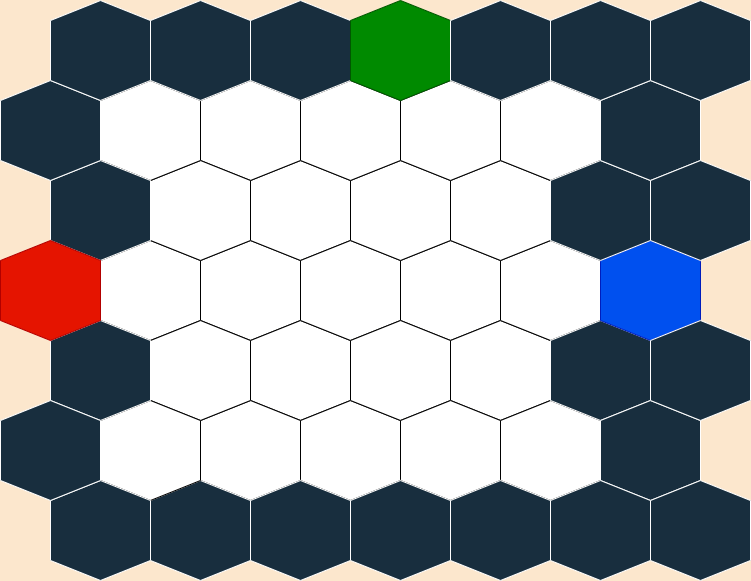
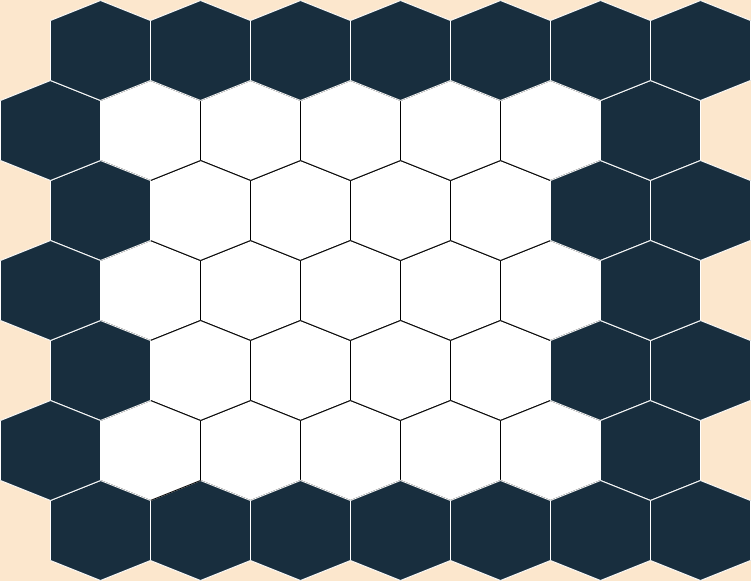
map

Changed region(s): [[0.4594, 0.0, 0.6125, 0.1859], [0.0, 0.4028, 0.1531, 0.5886], [0.7963, 0.4028, 0.9494, 0.5886]]

diff --git a/RLModified.py b/RLModified.py
@@ -5,11 +5,12 @@ import matplotlib.pyplot as plt
 import pickle
 from matplotlib import style
 import time
+import pygame
 
 style.use("ggplot")
 
 SIZE = 7
-HM_EPISODES = 25000
+HM_EPISODES =40000
 MOVE_PENALTY = 0.5
 OUT_PENALTY= 300
 COLLISION_PENALTY=300
@@ -32,13 +33,30 @@ d = {1: (255, 175, 0), #blue
      2: (0, 255, 0), #Green
      3: (0, 0, 255)} #Red
 
+map_file='map.png'
+conv=pygame.image.load(map_file)
+p1_file='greenPackage.png'
+p1=pygame.image.load(p1_file)
+p2_file='bluePackage.png'
+p2=pygame.image.load(p2_file)
+d1_file='greenCell.png'
+d1=pygame.image.load(d1_file)
+d2_file='blueCell.png'
+d2=pygame.image.load(d2_file)
+d3_file='redCell.png'
+d3=pygame.image.load(d3_file)
+
+screen_width = 750
+screen_height = 580
+screen = pygame.display.set_mode((screen_width, screen_height))
+
 MOVE_OPTIONS=["EAST", "NORTHEAST", "NORTHWEST","WEST", "SOUTHWEST", "SOUTHEAST","STAY"]
 
-class Package:
+class Cell:
     def __init__(self, x=False, y=False):
-        if not x:
+        if not x and not y:
             self.x = np.random.randint(1, SIZE-1)
-            self.y = SIZE-2
+            self.y = 1
         else:
             self.x=x
             self.y=y
@@ -56,43 +74,22 @@ class Package:
         if choice == 0:
             self.move(1, 0)
         elif choice == 1:
-            self.move((self.y)%2, 1)
+            self.move((self.y+1)%2, 1)
         elif choice == 2:
-            self.move( -(1+(self.y))%2, 1)
+            self.move( -((self.y))%2, 1)
         elif choice == 3:
             self.move(-1, 0)
         elif choice == 4:
-            self.move(-((self.y)+1)%2, -1)
+            self.move(-((self.y))%2, -1)
         elif choice == 5:
-            self.move((self.y)%2, -1)
+            self.move((self.y+1)%2, -1)
         elif choice == 6:
-            self.move(x=0, y=0)
+            self.move(0, 0)
             
 
-    def move(self, x=False, y=False):
-
-        # If no value for x, move randomly
-        if not x:
-            self.x += np.random.randint(-1, 2)
-        else:
-            self.x += x
-
-        # If no value for y, move randomly
-        if not y:
-            self.y += np.random.randint(-1, 2)
-        else:
-            self.y += y
-
-
-        # If we are out of bounds, fix!
-        if self.x < 0:
-            self.x = 0
-        elif self.x > SIZE-1:
-            self.x = SIZE-1
-        if self.y < 0:
-            self.y = 0
-        elif self.y > SIZE-1:
-            self.y = SIZE-1
+    def move(self, x, y):
+        self.x += x
+        self.y += y
 
 
 if start_q_table is None:
@@ -114,11 +111,16 @@ else:
 episode_rewards = []
 
 for episode in range(HM_EPISODES):
-    package1 = Package(0,1)
-    package2 = Package(SIZE-2,1)
-    destination3 = Package(2, 0)
-    destination1 = Package(SIZE-1, 0)
-    destination2 = Package(1,0)
+    while True:
+        package1 = Cell()
+        package2 = Cell()
+        if not package1.x-package2.x==0:
+            break
+    package3 = Cell(package1.x,package1.y)
+    package4 = Cell(package2.x,package2.y)
+    destination1 = Cell(3, SIZE-1)
+    destination2 = Cell(SIZE-1,3)
+    destination3 = Cell(0, 3)
     if episode % SHOW_EVERY == 0:
         print(f"on #{episode}, epsilon is {epsilon}")
         print(f"{SHOW_EVERY} ep mean: {np.mean(episode_rewards[-SHOW_EVERY:])}")
@@ -159,10 +161,10 @@ for episode in range(HM_EPISODES):
             q_table[obs][action2][1] =reward2
             p2_out=True
             reward+=reward2
-        if (package1.x==0 or package1.y==SIZE-1 or package1.y==0 or package1.x==SIZE-1) and not p1_out:
+        if (package1.x==0 or package1.y==SIZE-1 or package1.y==0 or package1.x==SIZE-1 or (package1.x==SIZE-2 and package1.y%2==0)) and not p1_out:
             reward1= -OUT_PENALTY#*i*(abs(package1.x-destination1.x)+abs(package1.y-destination1.y))
             p1_got_out=True
-        if ( package2.x==0 or package2.y==SIZE-1 or package2.y==0 or package2.x==SIZE-1) and not p2_out:    
+        if ( package2.x==0 or package2.y==SIZE-1 or package2.y==0 or package2.x==SIZE-1 or (package2.x==SIZE-2 and package2.y%2==0)) and not p2_out:    
             reward2= -OUT_PENALTY#*i*(abs(package2.x-destination2.x)+abs(package2.y-destination2.y))
             p2_got_out=True
         if package1.x == package2.x and package1.y == package2.y:
@@ -204,15 +206,24 @@ for episode in range(HM_EPISODES):
             #for i in range(1,SIZE-1):
             #    for ii in range(1,SIZE-1):
             #        env[i][ii]=(255,255,255)
-            env[destination1.y][destination1.x] = d[DESTINATION_N]  # sets the destination location tile to green color
+            env[SIZE-1-destination1.y][destination1.x] = d[DESTINATION_N]  # sets the destination location tile to green color
            
-            env[destination2.y][destination2.x] = d[PLAYER_N]  # sets the destination2 location to red
-            env[destination3.y][destination3.x] = d[ENEMY_N]
-            env[package1.y][package1.x] = d[DESTINATION_N]  # sets the package1 tile to blue
-            env[package2.y][package2.x] = d[PLAYER_N]
+            env[SIZE-1-destination2.y][destination2.x] = d[PLAYER_N]  # sets the destination2 location to red
+            env[SIZE-1-destination3.y][destination3.x] = d[ENEMY_N]
+            env[SIZE-1-package1.y][package1.x] = d[DESTINATION_N]  # sets the package1 tile to blue
+            env[SIZE-1-package2.y][package2.x] = d[PLAYER_N]
             img = Image.fromarray(env, 'RGB')  # reading to rgb. Apparently. Even tho color definitions are bgr. ???
             img = img.resize((300, 300))  # resizing so we can see our agent in all its glory.
             cv2.imshow("image", np.array(img))  # show it!
+            screen.blit(conv, (0, 0))
+            screen.blit(d1, (destination1.x*100+50*((destination1.y+1)%2), 580-20-(destination1.y+1)*80))
+            screen.blit(d2, (destination2.x*100+50*((destination2.y+1)%2), 580-20-(destination2.y+1)*80))
+            screen.blit(d3, (destination3.x*100+50*((destination3.y+1)%2), 580-20-(destination3.y+1)*80))
+            screen.blit(p1, (100*package1.x+50*((package1.y+1)%2)+10, 580-((package1.y+1)*80)-10))
+            screen.blit(p2, (100*package2.x+50*((package2.y+1)%2)+10, 580-((package2.y+1)*80)-10))
+            screen.blit(p2, (100*package3.x+50*((package3.y+1)%2)+10, 580-((package3.y+1)*80)-10))
+            screen.blit(p1, (100*package4.x+50*((package4.y+1)%2)+10, 580-((package4.y+1)*80)-10))
+            pygame.display.flip()
             if reward == 2*COLLISION_PENALTY or (p1_out and p2_out) :  # crummy code to hang at the end if we reach abrupt end for good reasons or not.
                 if cv2.waitKey(500) & 0xFF == ord('q'):
                     break
